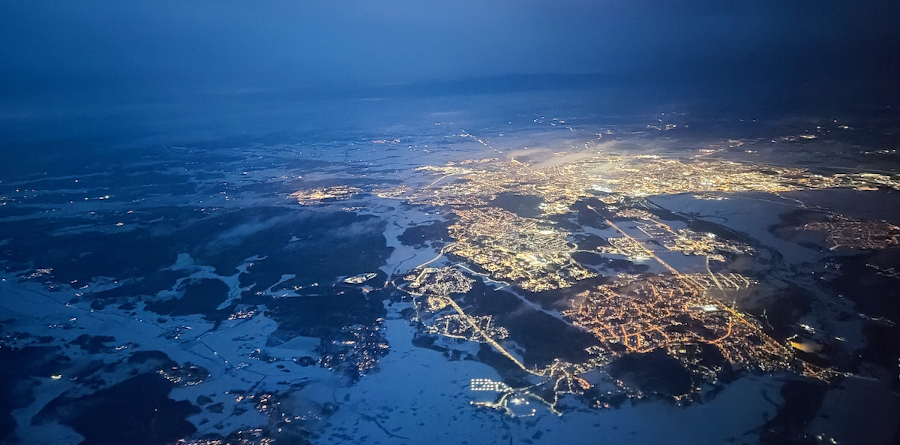
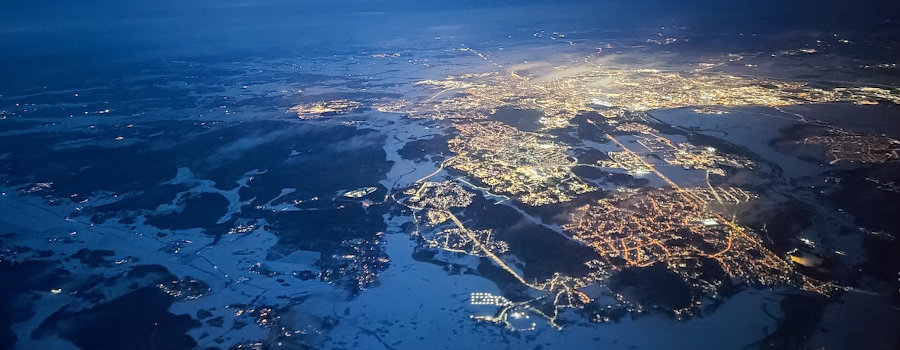
tweak: Resize background image

diff --git a/index.html b/index.html
@@ -8,8 +8,8 @@
     <title>Rens Admiraal &middot; East west, CLI best</title>
 </head>
 
-<body class="h-full">
-    <main class="min-h-full bg-cover bg-top sm:bg-top" style="background-image: url('src/bg.jpg')">
+<body class="h-full flex flex-col justify-between bg-slate-100">
+    <main class="bg-cover bg-center h-96" style="background-image: url('src/bg.jpg')">
         <div class="max-w-7xl mx-auto px-4 py-16 text-center sm:px-6 sm:py-24 lg:px-8 lg:py-48">
         </div>
     </main>
